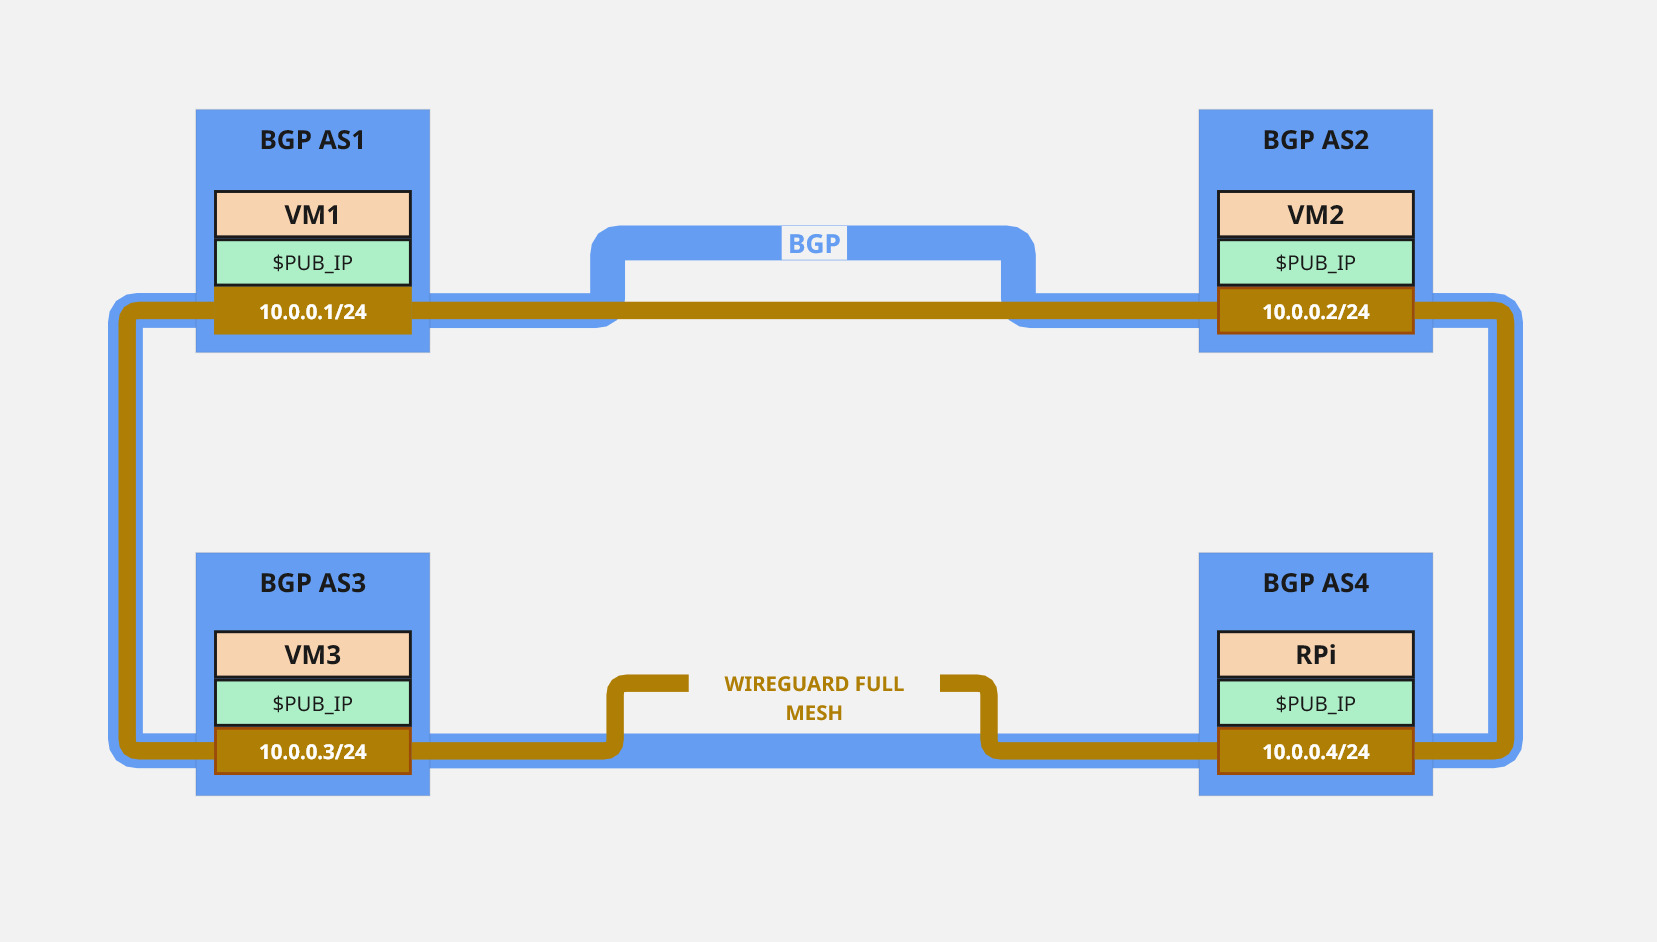
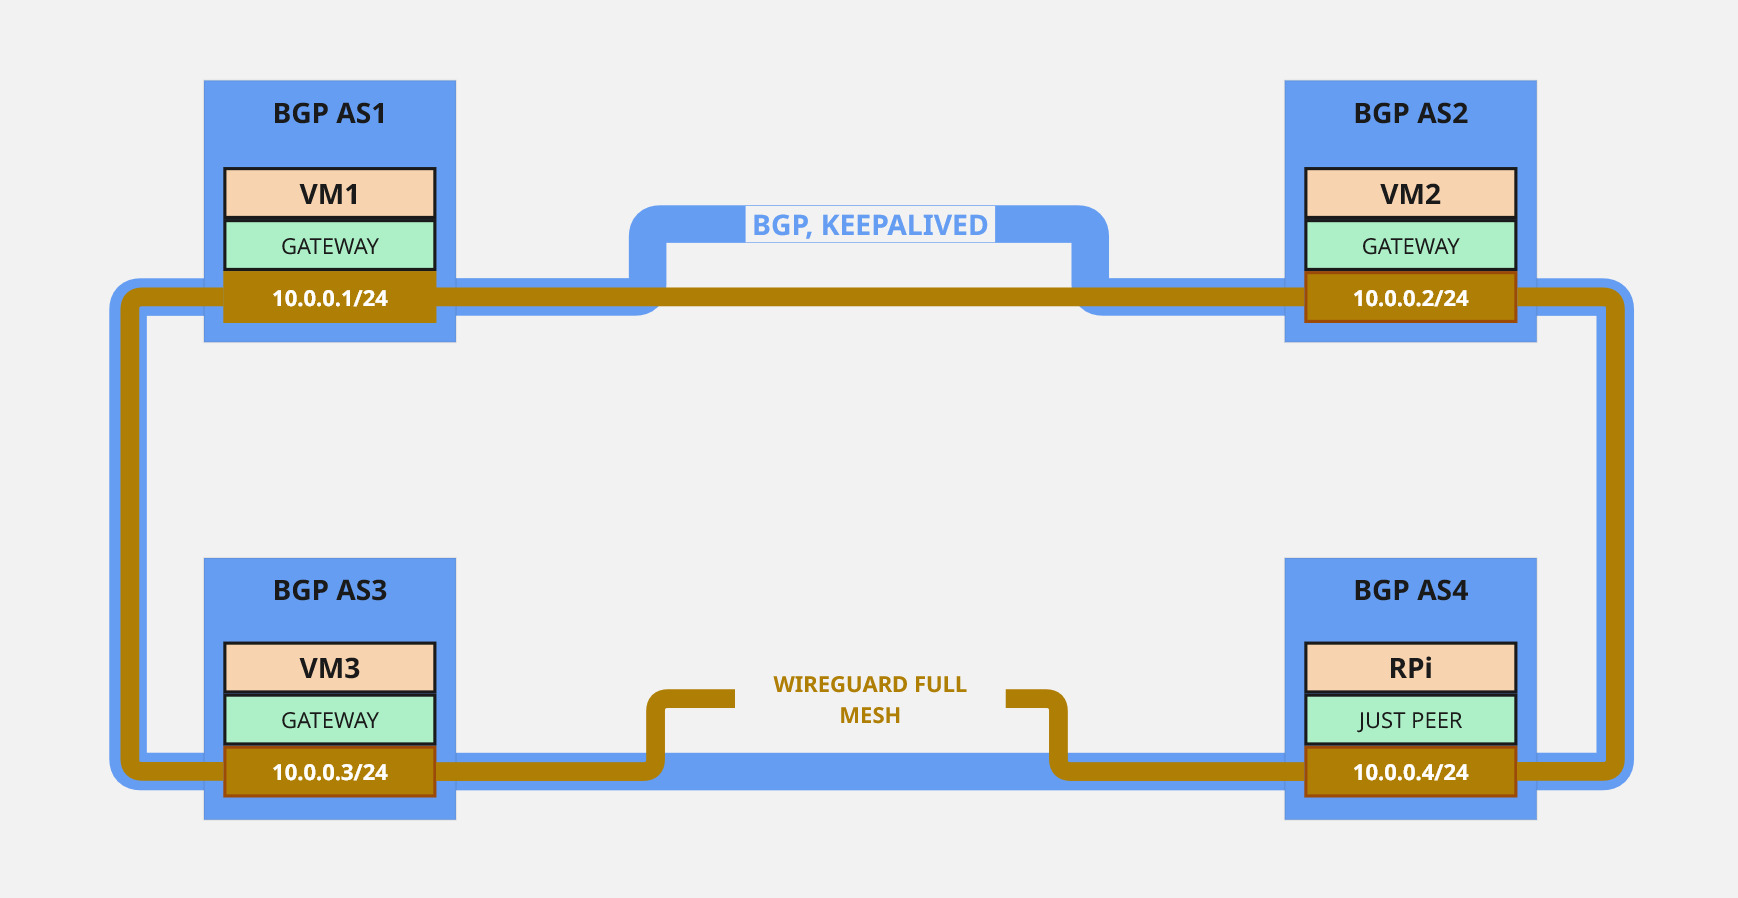
- Edit README.md - Replace arcitecture image

Changed region(s): [[0.0616, 0.0624, 0.9541, 0.9354], [0.0923, 0.0624, 0.277, 0.1559]]

diff --git a/README.md b/README.md
@@ -8,11 +8,15 @@
 
 A high-availability WireGuard VPN cluster with automatic failover and optimized routing using BGP and keepalived.
 
-## 🏗 Architecture
+## Architecture
 
 The project implements a resilient VPN infrastructure consisting of:
 
-- **4 Virtual Machines**: 3 nodes with public IP addresses (gateway nodes) + 1 internal node without public IP
+- **Four nodes**:
+    - **VM1**: Public IP address (gateway node)
+    - **VM2**: Public IP address (gateway node)
+    - **VM3**: Public IP address (gateway node)
+    - **RPi**: Private IP address (NAT) (peer node)
 - **Full Mesh WireGuard Network**: Every node connects to every other node for maximum redundancy
 - **BGP Dynamic Routing**: Optimizes packet routing between peers automatically
 - **Keepalived High Availability**: Ensures automatic failover when nodes become unavailable
